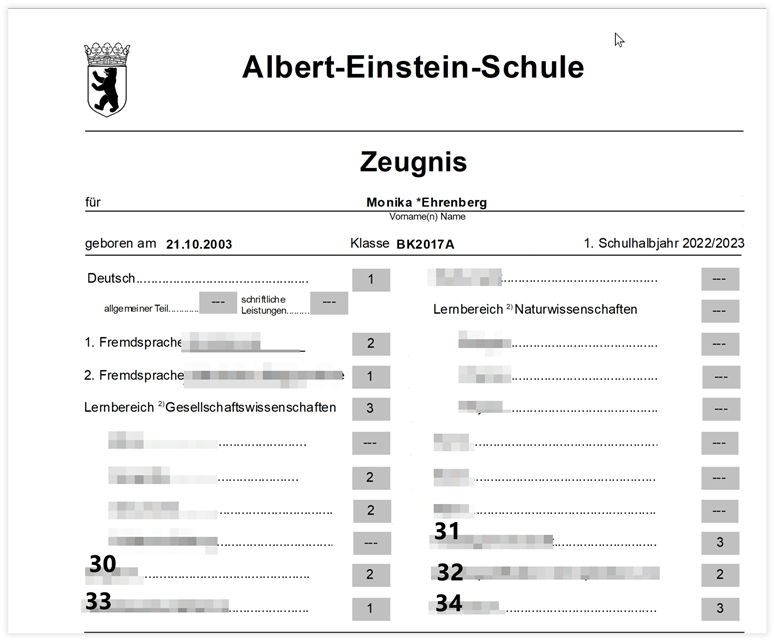
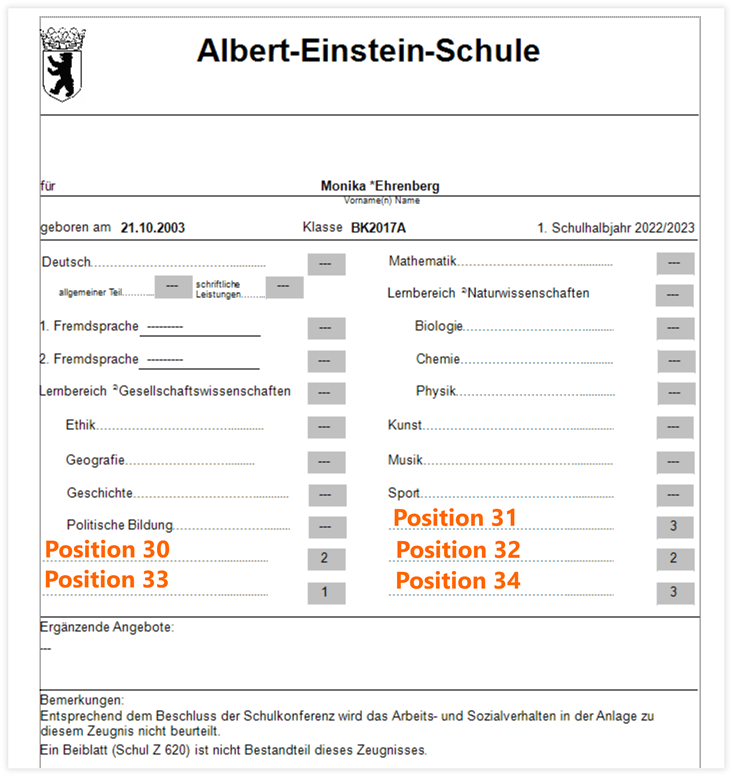
no message

diff --git a/docs/berichte/zeugnisse/ber/BER-Schul Z 250 (11.19).md b/docs/berichte/zeugnisse/ber/BER-Schul Z 250 (11.19).md
@@ -1,5 +1,7 @@
 # BER-Schul Z 250 (11.19)
 
+[01]:/assets/images/berlin/ber-z-250-01.png "Positionierung der Wahlfächer"
+
 Schul Z 250 – Zeugnis des Gymnasiums, Jahrgangsstufen 7 bis 10, optional Jahrgangsstufen 5 und 6 – (11.19)
 
 ## Allgemeines
@@ -118,9 +120,9 @@ Wahlpflichtfach oder Informationstechnischen Grundkurs, rechte Spalte | 34
 
     Eine falsche Positionierung der Fächer ordnet den Fächern eine falsche oder keine Note zu. Das Fach wird trotzdem angezeigt (eine Ausnahme bilden dei Fächer der Positionen 30-34, diese werden nur mit erfasster Endnote ausgegeben).
 
-[01]:/assets/images/berlin/ber-z-250-01.png "Positionierung der Wahlfächer"
 
-[![Positionierung der Wahlfächer][01]{:width=100%}][01]
+
+![Positionierung der Wahlfächer][01]
 
 ## Zeugnisbemerkungen
 
